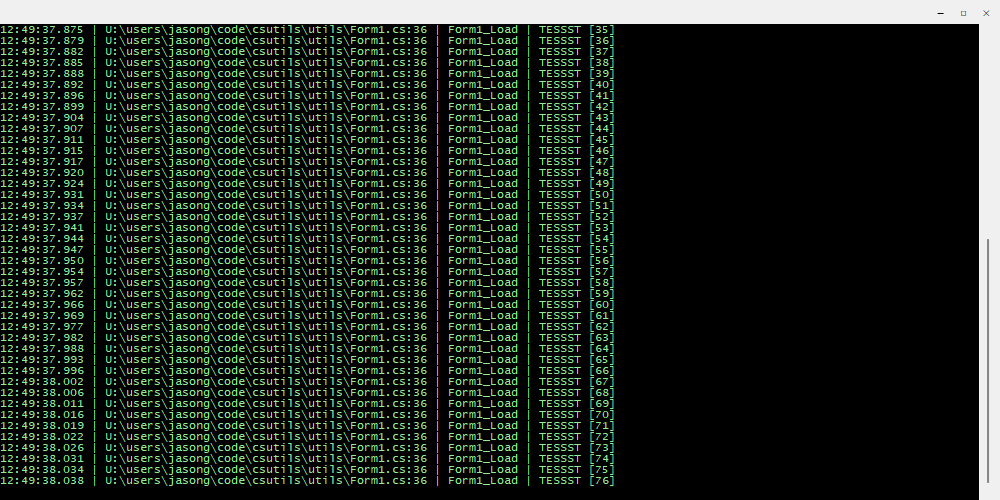
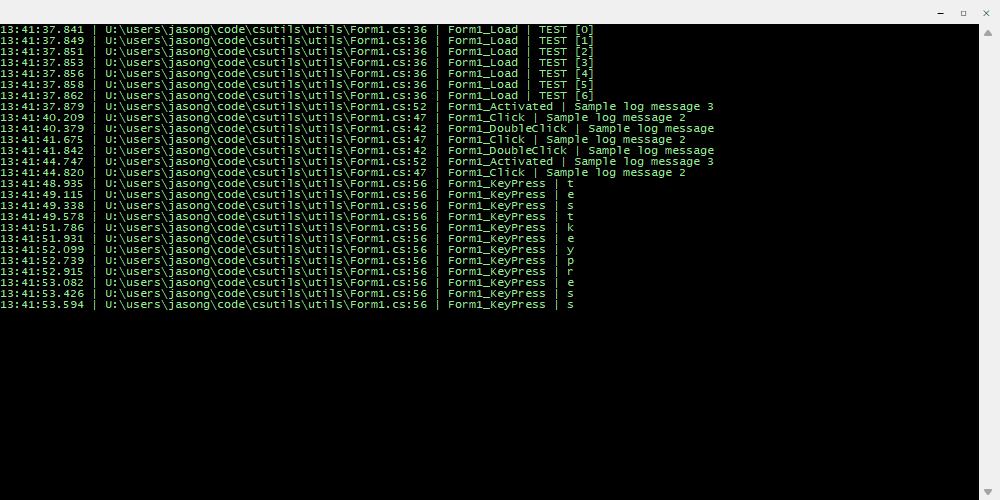
update screenshot

diff --git a/utils/Form1.cs b/utils/Form1.cs
@@ -31,9 +31,9 @@ namespace utils
                 }
             }
 
-            for (int i = 0; i < 77; i++)
+            for (int i = 0; i < 7; i++)
             {
-                debug.Append($"TESSST [{i}]");
+                debug.Append($"TEST [{i}]");
             }
         }
     }
